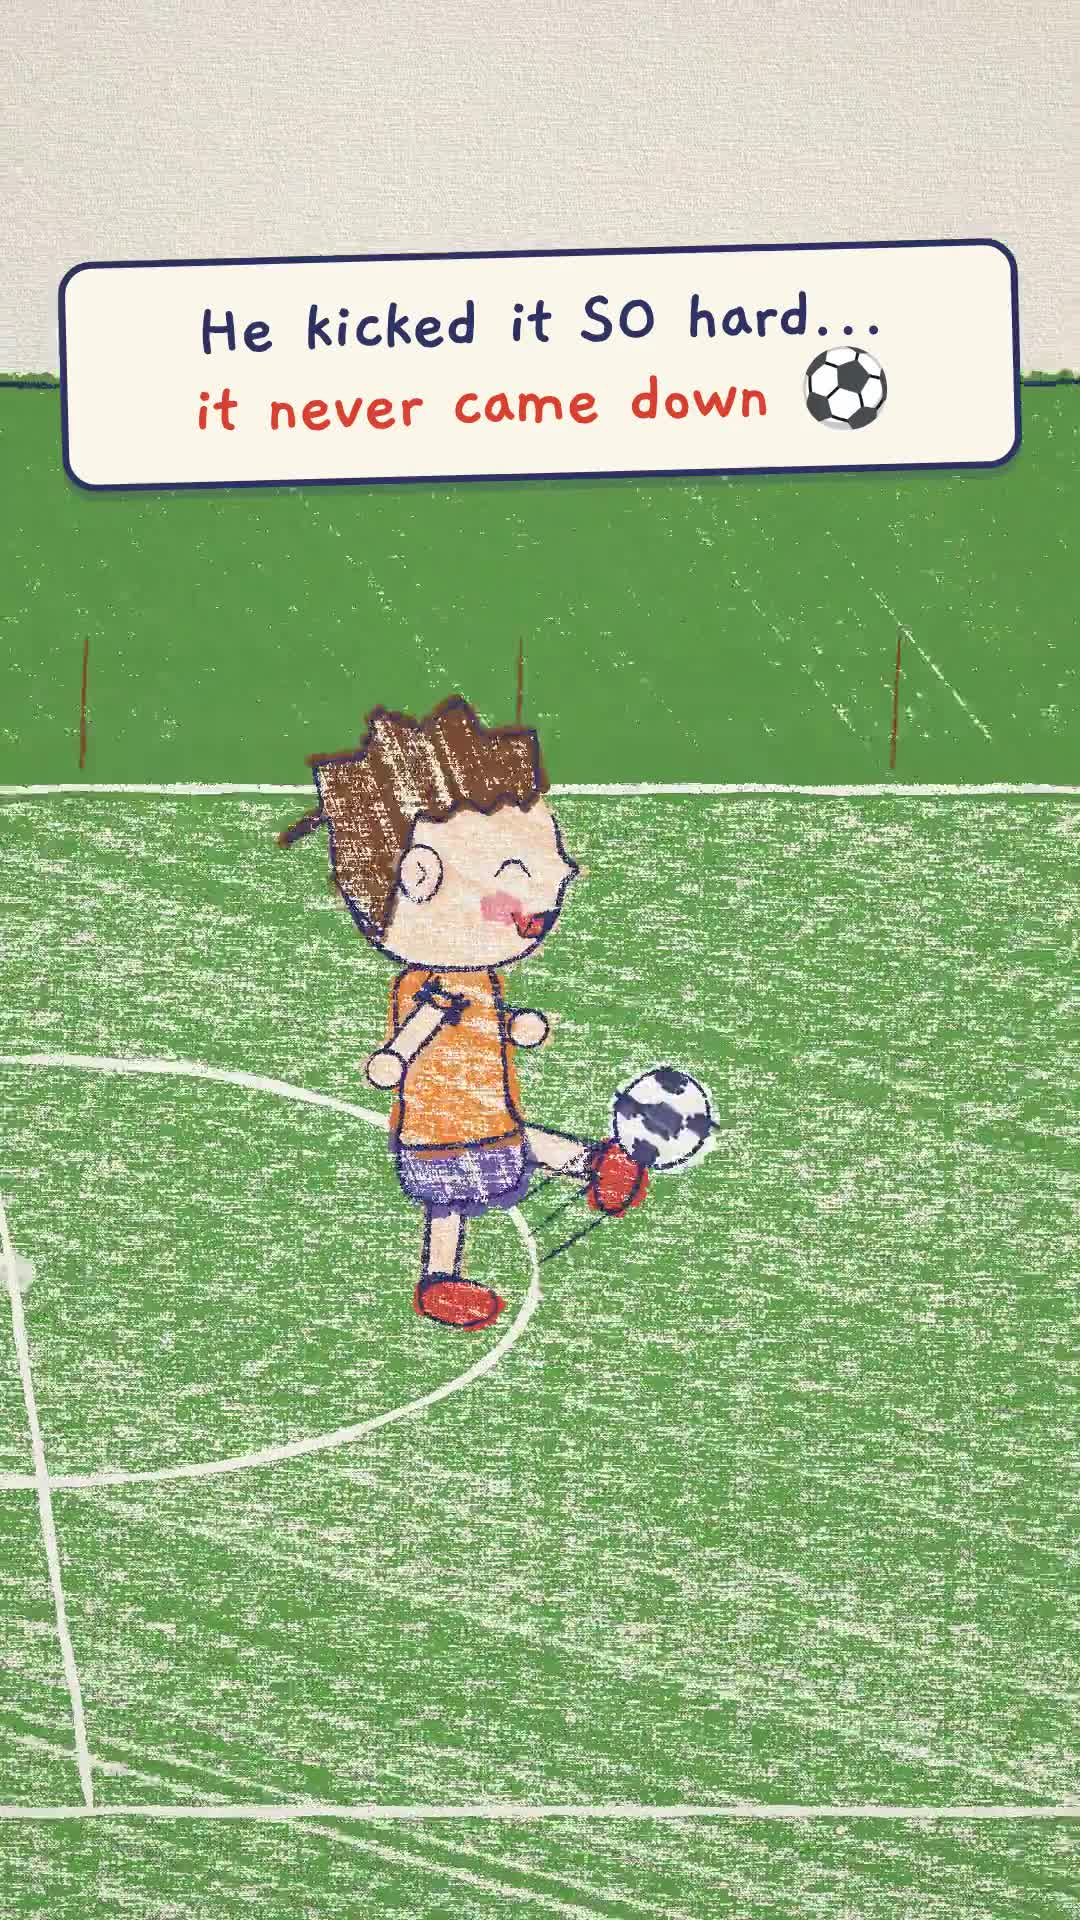
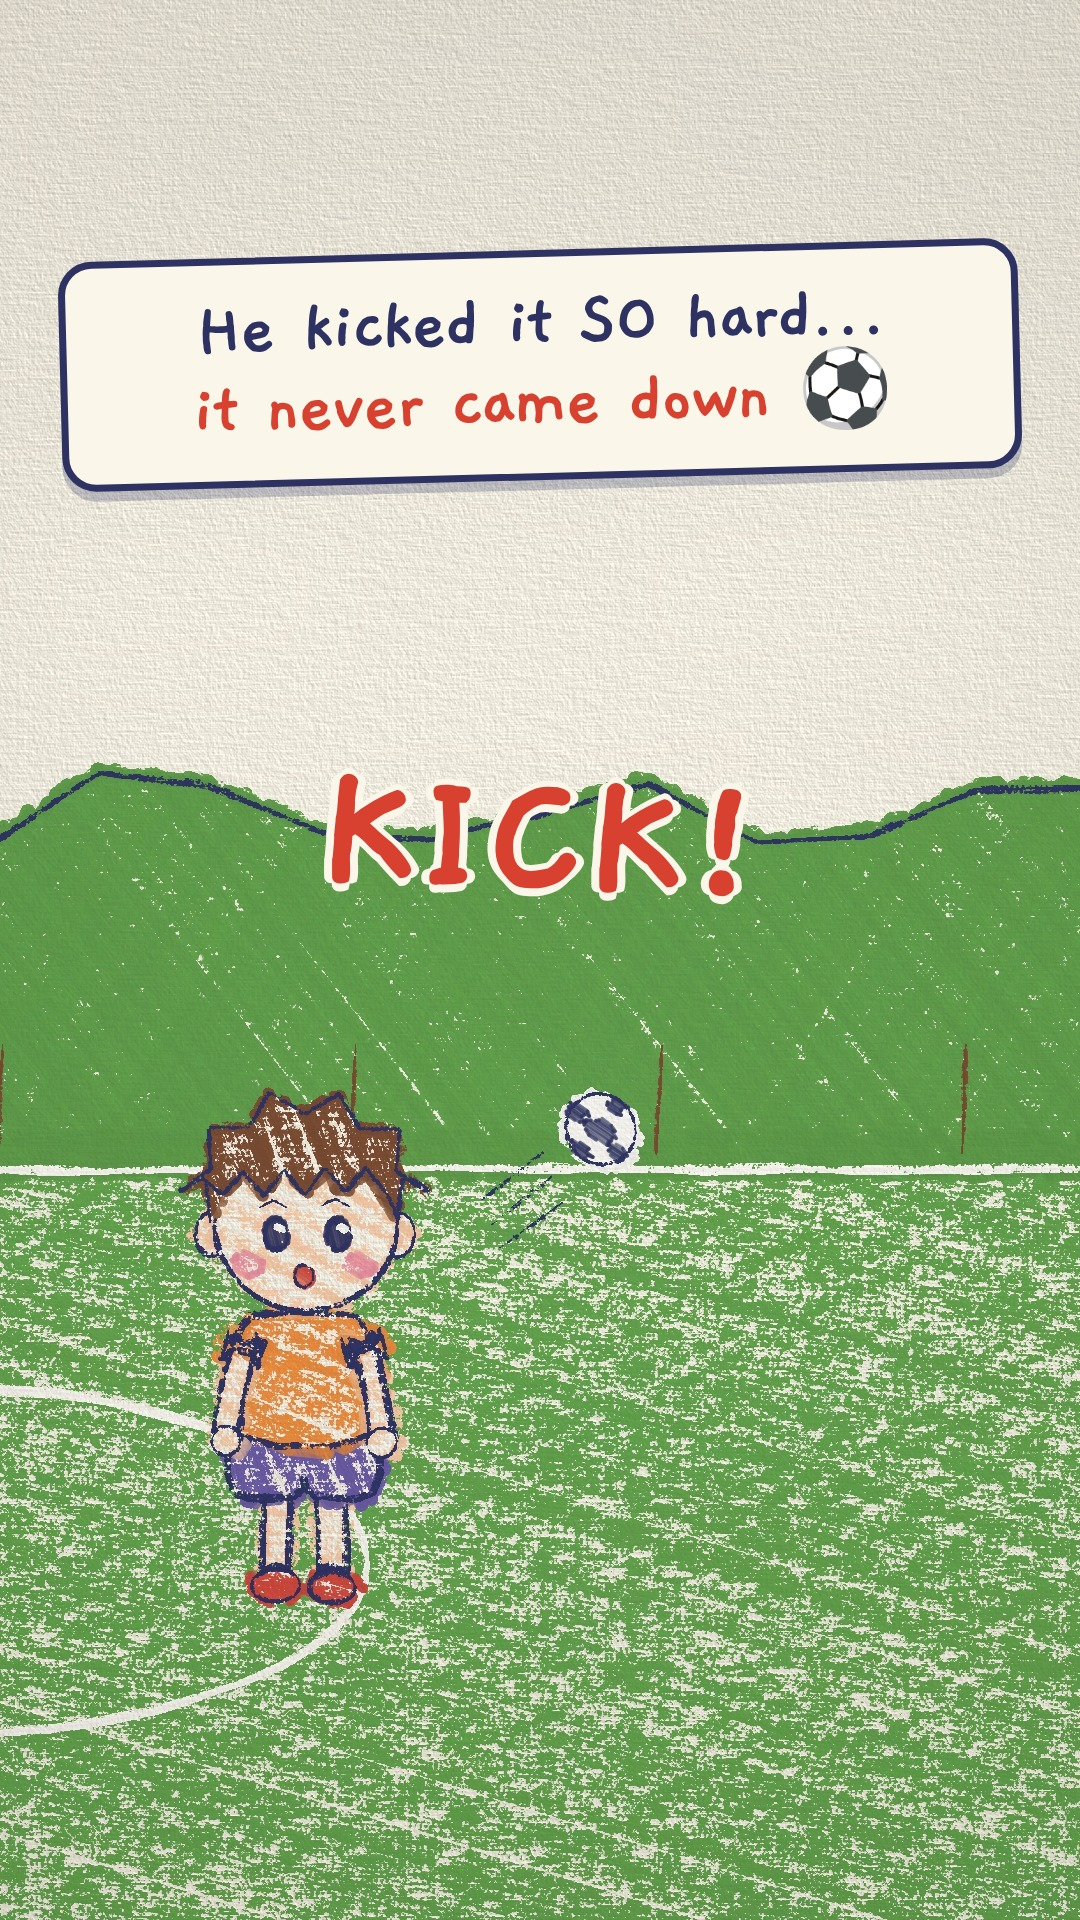
Leo series: hook-first episodes 8 and 9, new hook covers 7-9, clean-frame mode
Claude-Session: https://claude.ai/code/session_01T9kzsKpr6HhmHqsPECFeBX

diff --git a/leo-series/engine/main.js b/leo-series/engine/main.js
@@ -18,6 +18,7 @@ if (Q.get('cover')) {
   const ep = (Q.get('ep') || '02').padStart(2, '0');
   const M = await import(`../episodes/ep${ep}.js`);
   window.DUR = M.DUR; window.EV = M.EV; window.SUBS = M.SUBS; window.TEXTS = M.TEXTS;
-  window.render = t => { BOIL.step = Math.floor(t * 12 + 1e-6); M.frame(comp, t); };
+  const clean = Q.get('clean') ? { cover: () => {} } : undefined;   // ?clean=1: no subtitles or cards (for hook covers)
+  window.render = t => { BOIL.step = Math.floor(t * 12 + 1e-6); M.frame(comp, t, clean); };
 }
 window.READY = true;
